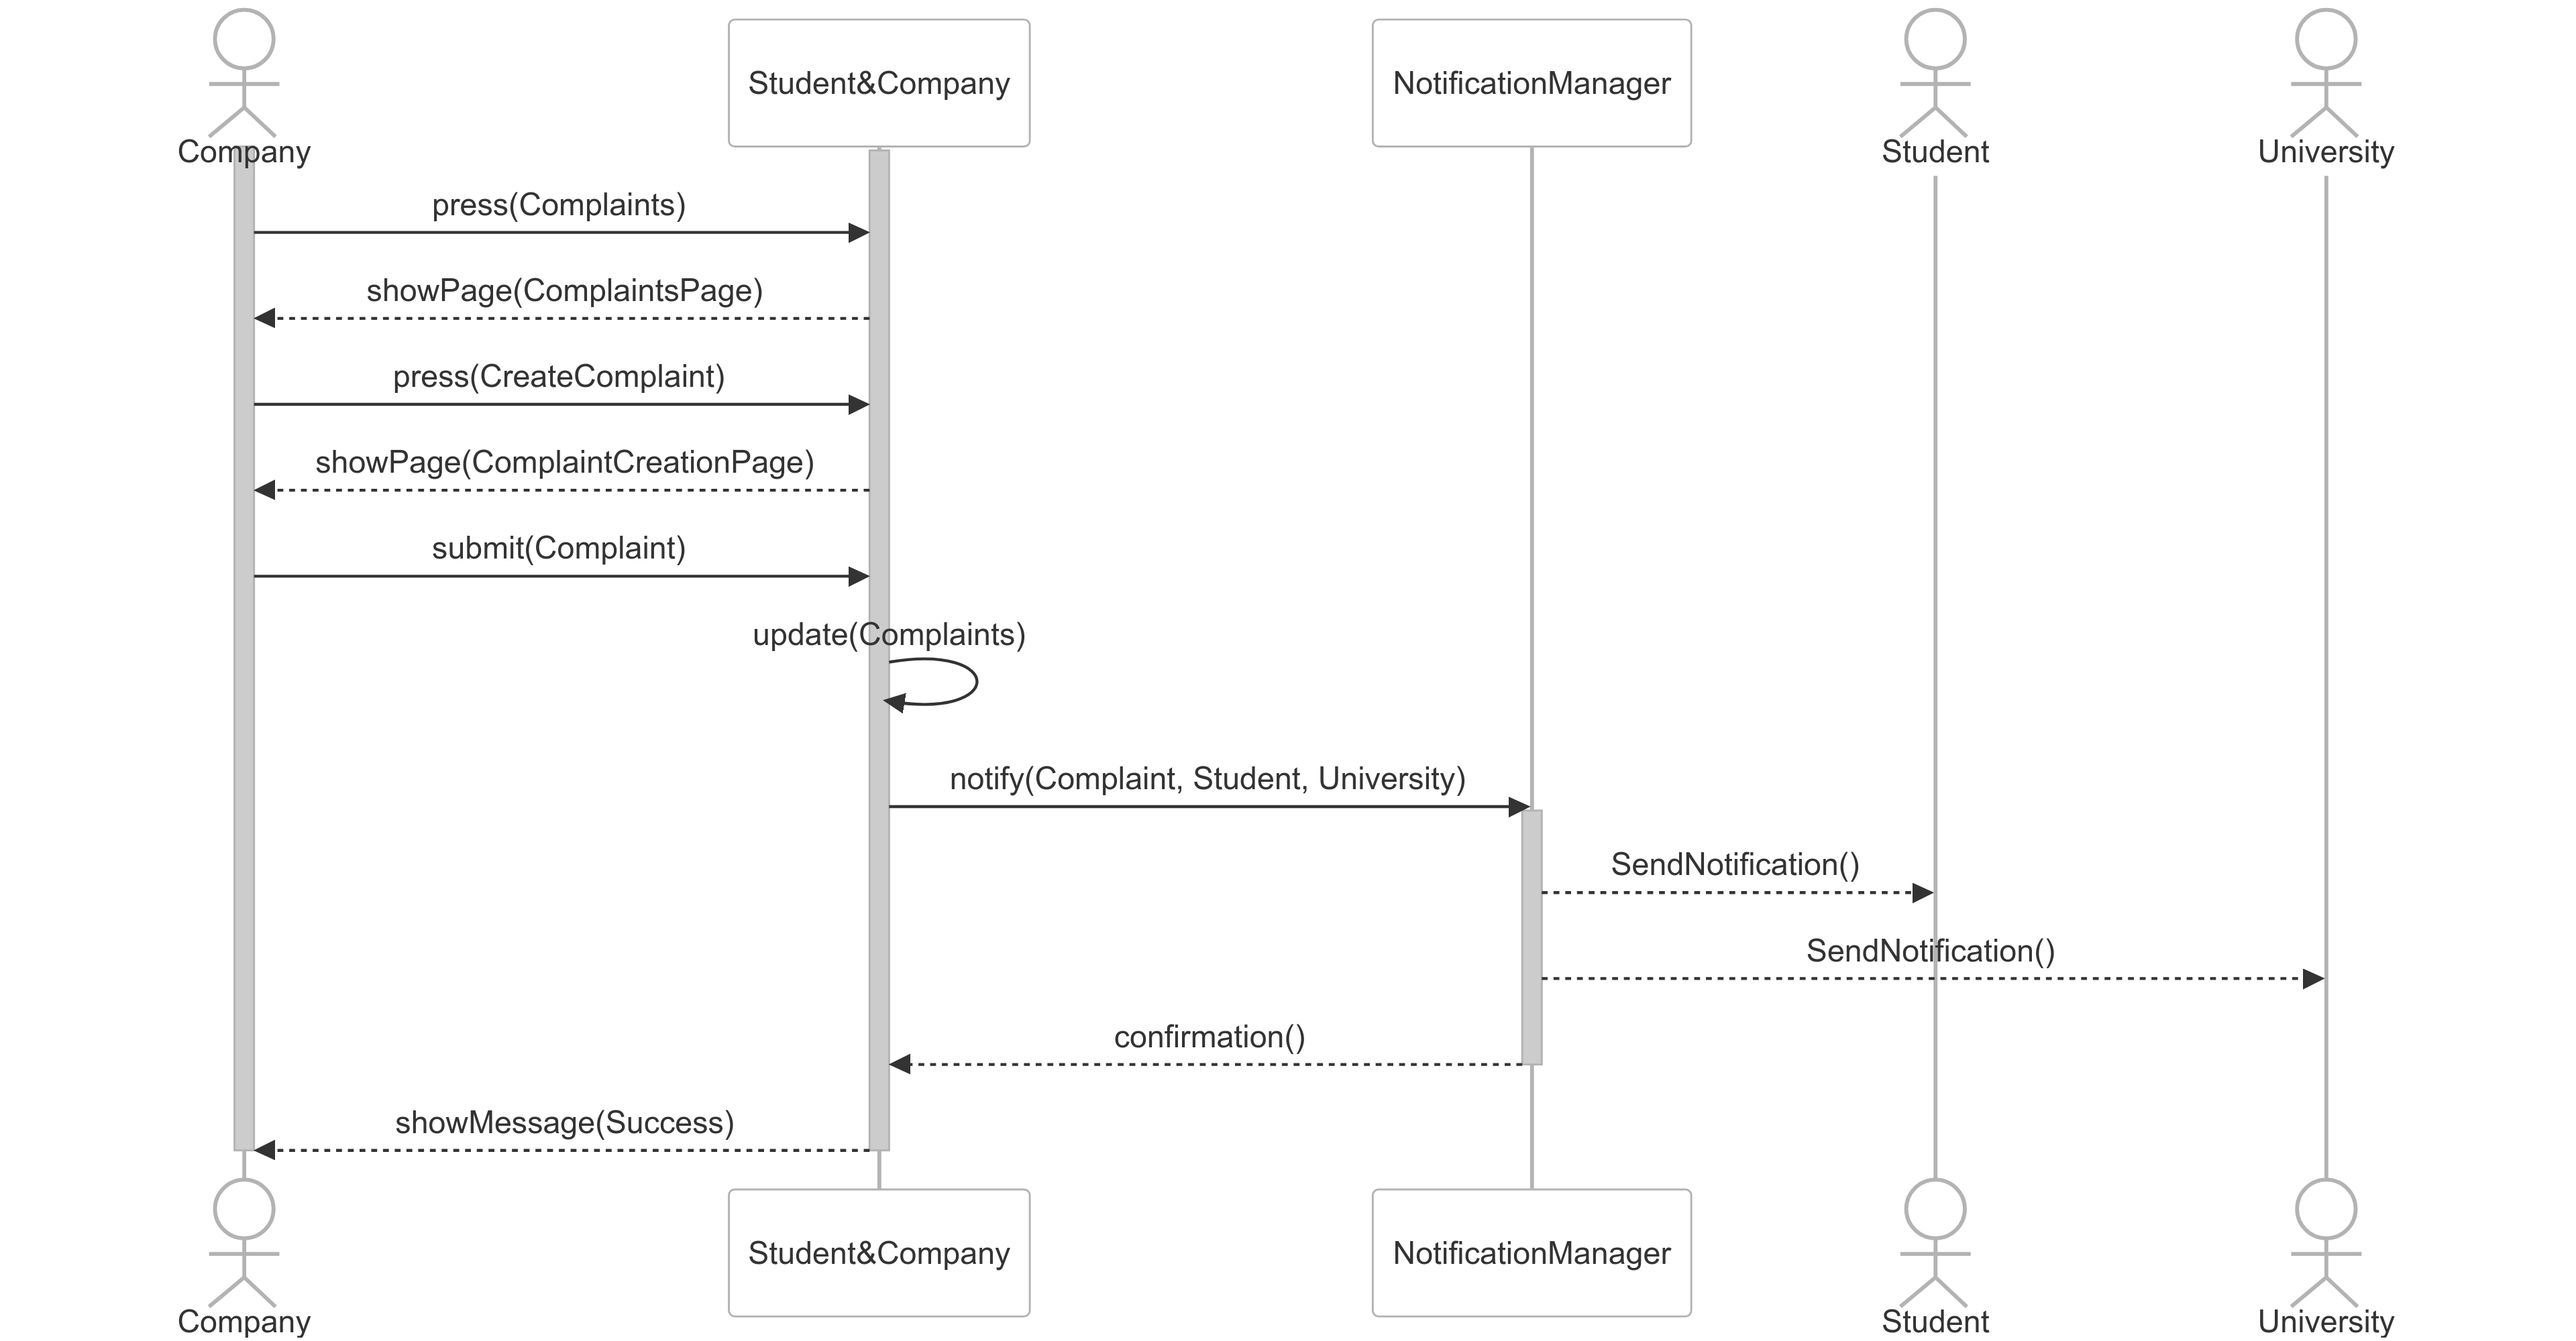
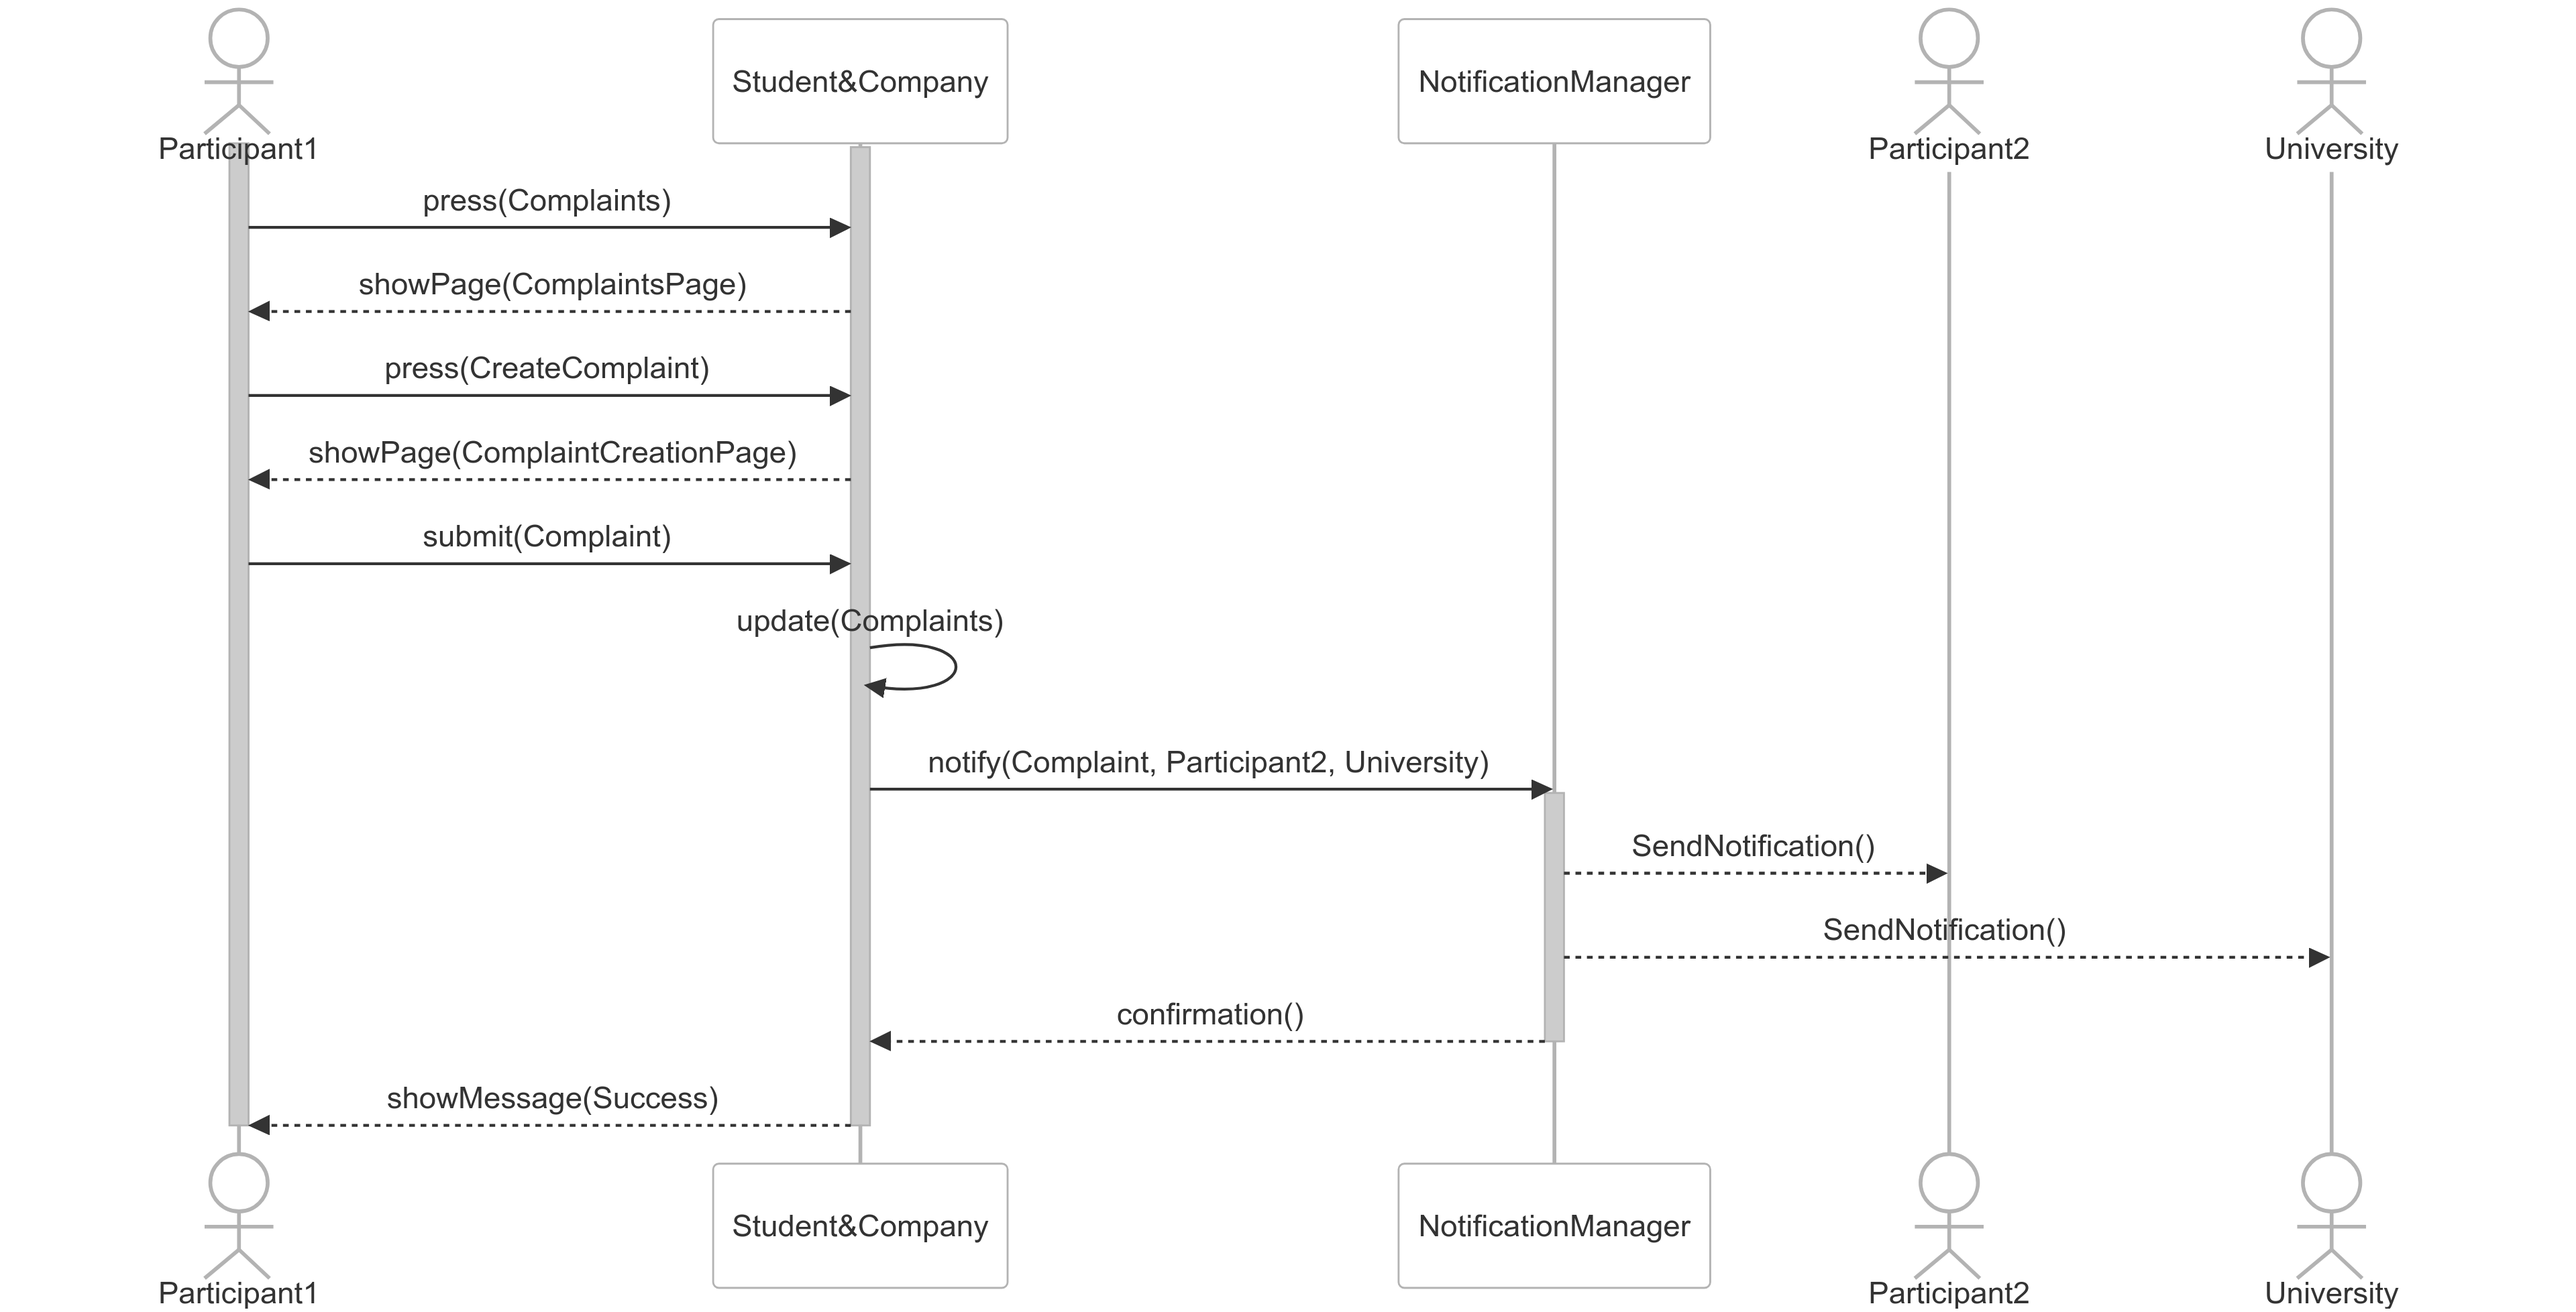
PublishComplaint Participant refactor

diff --git a/Diagrams/SequenceDiagrams/SequenceDiagrams.md b/Diagrams/SequenceDiagrams/SequenceDiagrams.md
@@ -348,28 +348,28 @@ sequenceDiagram
 # PublishComplaint
 ```mermaid
 sequenceDiagram
-    actor Company
+    actor Participant1
     participant Student&Company
     participant NotificationManager
-    actor Student
+    actor Participant2
     actor University
-    activate Company
+    activate Participant1
     activate Student&Company
-    Company ->> Student&Company: press(Complaints)
-    Student&Company -->> Company: showPage(ComplaintsPage)
-    Company ->> Student&Company: press(CreateComplaint)
-    Student&Company -->> Company: showPage(ComplaintCreationPage)
-    Company ->> Student&Company: submit(Complaint)
+    Participant1 ->> Student&Company: press(Complaints)
+    Student&Company -->> Participant1: showPage(ComplaintsPage)
+    Participant1 ->> Student&Company: press(CreateComplaint)
+    Student&Company -->> Participant1: showPage(ComplaintCreationPage)
+    Participant1 ->> Student&Company: submit(Complaint)
     Student&Company ->> Student&Company: update(Complaints)
-    Student&Company ->> NotificationManager: notify(Complaint, Student, University)
+    Student&Company ->> NotificationManager: notify(Complaint, Participant2, University)
     activate NotificationManager
-    NotificationManager -->> Student: SendNotification()
+    NotificationManager -->> Participant2: SendNotification()
     NotificationManager -->> University: SendNotification()
     NotificationManager -->> Student&Company: confirmation()
     deactivate NotificationManager
-    Student&Company -->> Company: showMessage(Success)
+    Student&Company -->> Participant1: showMessage(Success)
     deactivate Student&Company
-    deactivate Company
+    deactivate Participant1
 ```
 
 # RespondToComplaint

diff --git a/RASD.md b/RASD.md
@@ -691,18 +691,18 @@ Given the system's non-essential nature, overly rigid performance standards are 
 To me, this is clearer-->
 
 ### PublishComplaint
-**Actors:** Company, Student, University, Notification Manager
+**Actors:** Participant, University, Notification Manager
 
 **Entry Conditions:** There is an Ongoing Internship between the relative Company and Student.
 
 **Flow of Events:**
-1. The Company selects the "Complaints" option.
+1. The Participant selects the "Complaints" option.
 2. The platform opens the Complaints page.
-3. The Company selects the "Create Complaint" option.
+3. The Participant selects the "Create Complaint" option.
 4. The platform shows the Complaint creation form.
-5. The Company fills the form with the required information (Student's name, Internship title, description of the problem) and click the “Submit Complaint” button.
+5. The Participant fills the form with the required information and click the “Submit Complaint” button.
 6. The platform publishes the Complaint.
-7. The platform notifies the Student and the University through the Notification Manager.
+7. The platform notifies the involved Participants and the University through the Notification Manager.
 
 **Exit Conditions:** The Complaint is created and published.
 
